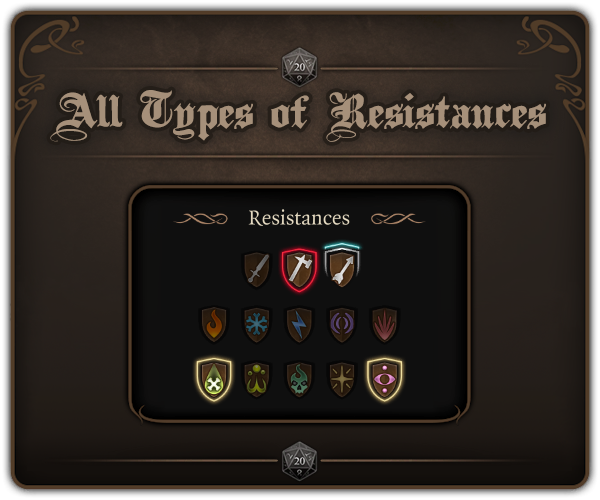
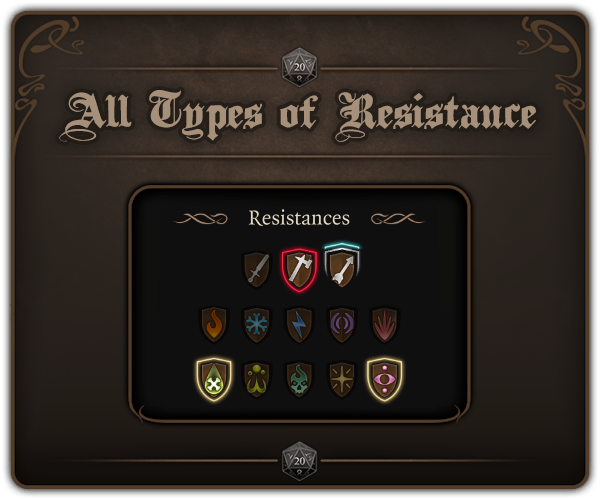
🔖 Update version to 1.3.0
- Add compatibility with BetterTargetInfo mod
- Update images of resistance
- Update README

Changed region(s): [[0.09, 0.18, 0.93, 0.3]]

diff --git a/README.md b/README.md
@@ -11,7 +11,7 @@ The purpose of this mod is to display **All Types of Resistance** including ones
 Also improve Character and Party panel for Spell Book UI in general (Class info / Spell list / Reactions)
 
 ## 🔖 Version
-- 📦 **AToR** mod : `1.2.0`
+- 📦 **AToR** mod : `1.3.0`
 - 🎮 **BG3** compatible : `4.1.1`
 
 ## ✨ Features
@@ -32,7 +32,28 @@ Also improve Character and Party panel for Spell Book UI in general (Class info 
 
 ## 🔀 Compatibility
 
-### 📄 Files :
+### 🟢 **Compatible** with the following mods :
+- **Better Character and Party Panels** ( *BCPP* ) *All variants* : Tested with BCPP v1.5.9
+- **Better Target Info** ( *BTI* ) : Tested with BTI v1.1.6
+
+    > The icons of resistance work fine. Unfortunately, I can't achieved to display the none ones. But 13 icons on top of the screen all the time is what you really want to anyway ?
+
+### 🟡 Compatible with **minor bugs** :
+- **Better Tooltips** ( *BT* ) : Tested with BT v1.0.8
+
+  - **Minor Bug** : Tooltips for no resistance/immunity/vulnerable are displayed as *vulnerable* 
+  ( **Believe in the icon** and not the tooltip )
+  
+  - **Install** : You **have to** rename `BetterTooltips.pak` file from *BT* mod into `_BetterTooltips.pak`
+    
+    > Any character before 'A' works, like '_' as advice.
+    >
+    > Because *BT* needs to overwrite my mod's files and it doesn't work conventionally (Like with BG3MM) as *AToR* and *BT*. Any character before 'A' works, as does '_' if you follow the instruction to install.
+
+### 🔴 **Not compatible** with the following mods :
+- None -> *Tell me if you find one ❗*
+
+### 📄 Modified Files :
 
 This mod changes the following files of the game :
 
@@ -40,25 +61,6 @@ This mod changes the following files of the game :
   - **CharacterSheetTemplates_k.xaml**
   - **Tooltips.xaml**
   - **Images_k.xaml**
-  
-### 👽 Other mods :
-
-#### 🟢 **Compatible** with the following mods :
-- **Better Character and Party Panels** ( *BCPP* ) *All variants* : Tested with BCPP v1.5.9
-
-#### 🟡 Compatible with **minor bugs** :
-- **Better Tooltips** ( *BT* ) : Tested with BT v1.0.8
-
-  - **Minor Bug** : Tooltips for no resistance/immunity/vulnerable are displayed as *vulnerable* 
-  ( **Believe in the icon** and not the tooltip )
-  
-  - **Install** : You **have to** rename `BetterTooltips.pak` file from *BT* mod into `50_BetterTooltips.pak`
-because *BT* needs to overwrite my mod's files and it doesn't work conventionally (Like with BG3MM).
-
-#### 🔴 **Not compatible** with the following mods :
-- **Better Target Info**
-
-*NB : I am currently working on it to make this possible. Stay tuned ❗*
 
 ## 💾 Install
 
@@ -95,17 +97,16 @@ Remove the mod's `.pak` file from :
   <img src="Docs/Screenshots/Inspect_creature_Mizora.png" alt="Inspect creature Mizora"/>
 </p>
 
+### Reverse Resistances & Conditions order :
+
+<p align="center">
+  <img src="Docs/Screenshots/CharPanel_Karlach.png" alt="Character panel"/>
+</p>
 
 ### Tooltips :
 
 <p align="center">
   <img src="Docs/Screenshots/Tooltips.png" alt="Tooltips"/>
-</p>
-
-### Character panel :
-
-<p align="center">
-  <img src="Docs/Screenshots/CharPanel_Karlach.png" alt="Character panel"/>
 </p>
 
 ### Resistances none :
